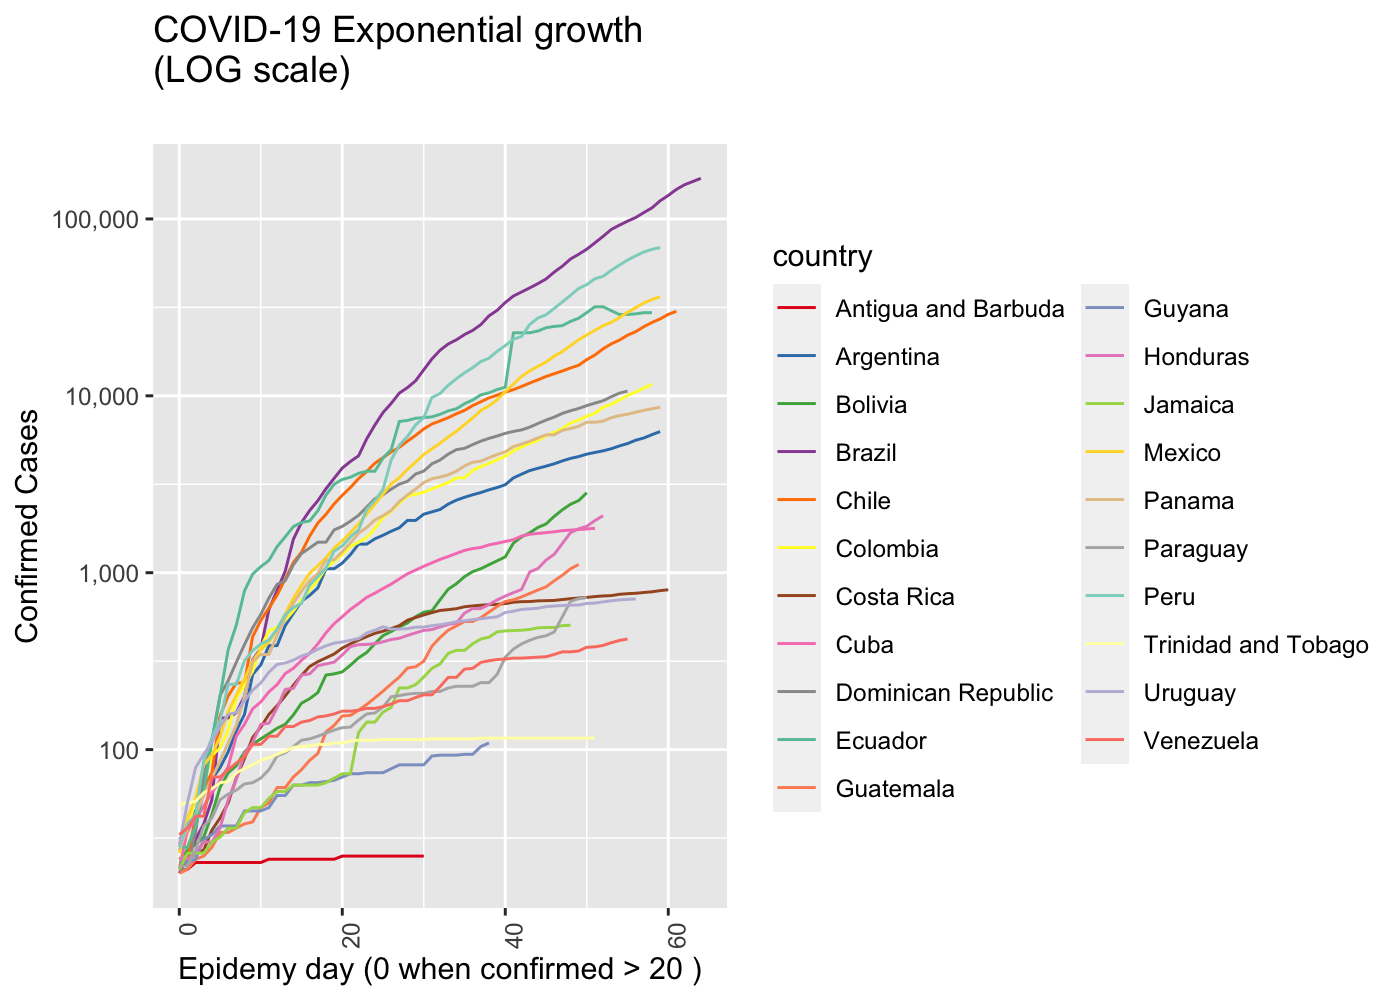
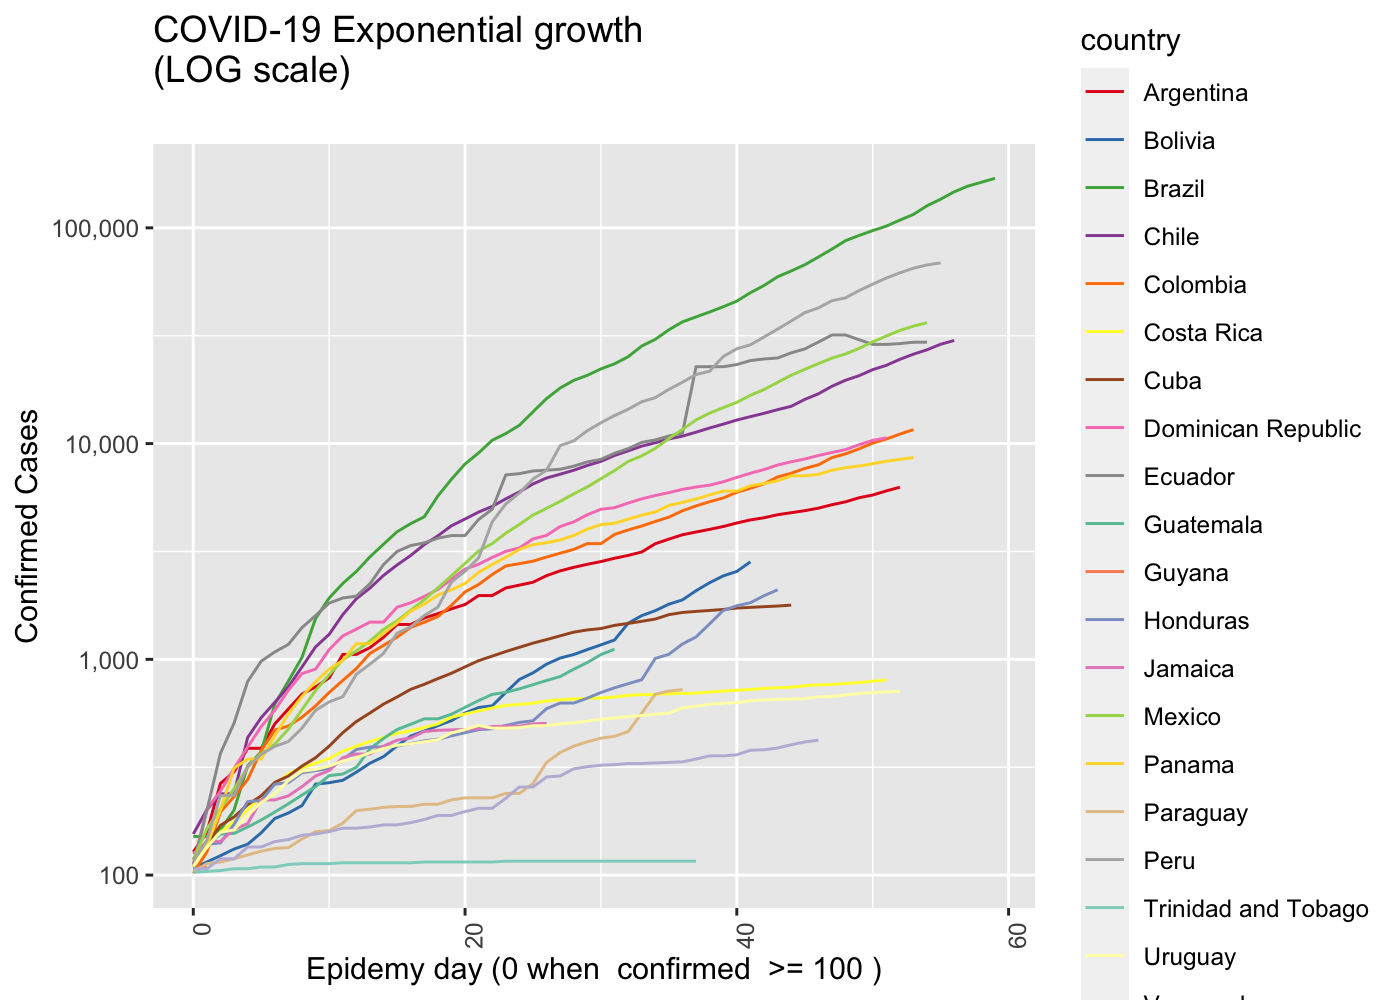
Minor corrections to dataviz

diff --git a/README.md b/README.md
@@ -90,15 +90,15 @@ library(dplyr)
 ``` r
 data.processor <- COVID19DataProcessor$new(force.download = FALSE)
 dummy <- data.processor$setupData()
-#> INFO  [23:47:04.010]  {stage: data loaded}
+#> INFO  [00:20:52.758]  {stage: data loaded}
 dummy <- data.processor$curate()
 #> Warning in countrycode(x, origin = "country.name", destination = "continent"): Some values were not matched unambiguously: MS Zaandam
-#> INFO  [23:47:06.366]  {stage: consolidated}
-#> INFO  [23:47:07.287]  {stage: Starting first imputation}
-#> INFO  [23:47:07.288] Imputation indicator {indicator: confirmed}
-#> INFO  [23:47:07.330] Imputation indicator {indicator: recovered}
-#> INFO  [23:47:07.436] Imputation indicator {indicator: deaths}
-#> INFO  [23:47:08.723]  {stage: Calculating top countries}
+#> INFO  [00:20:55.046]  {stage: consolidated}
+#> INFO  [00:20:55.718]  {stage: Starting first imputation}
+#> INFO  [00:20:55.719] Imputation indicator {indicator: confirmed}
+#> INFO  [00:20:55.756] Imputation indicator {indicator: recovered}
+#> INFO  [00:20:55.847] Imputation indicator {indicator: deaths}
+#> INFO  [00:20:56.954]  {stage: Calculating top countries}
 current.date <- max(data.processor$data$date)
 
 rg <- ReportGeneratorEnhanced$new(data.processor)
@@ -182,7 +182,7 @@ rg$ggplotTopCountriesStackedBarDailyInc(included.countries = latam.countries,
 <img src="man/figures/README-unnamed-chunk-5-1.png" width="100%" />
 
 ``` r
-rc$ggplotComparisonExponentialGrowth(included.countries = latam.countries, min.cases = 20)
+rc$ggplotComparisonExponentialGrowth(included.countries = latam.countries, min.cases = 100)
 ```
 
 <img src="man/figures/README-unnamed-chunk-5-2.png" width="100%" />
@@ -194,6 +194,13 @@ rg$ggplotCountriesLines(included.countries = latam.countries, countries.text = "
 ```
 
 <img src="man/figures/README-unnamed-chunk-5-3.png" width="100%" />
+
+``` r
+
+rc$ggplotComparisonExponentialGrowth(included.countries = latam.countries, field = "deaths", y.label = "deaths", min.cases = 1)
+```
+
+<img src="man/figures/README-unnamed-chunk-5-4.png" width="100%" />
 
 ``` r
 rg$ggplotTopCountriesStackedBarDailyInc(top.countries)
@@ -208,6 +215,12 @@ rc$ggplotComparisonExponentialGrowth(included.countries = international.countrie
 ```
 
 <img src="man/figures/README-unnamed-chunk-6-2.png" width="100%" />
+
+``` r
+rc$ggplotComparisonExponentialGrowth(included.countries = international.countries, field = "deaths", y.label = "deaths", min.cases = 1)
+```
+
+<img src="man/figures/README-unnamed-chunk-6-3.png" width="100%" />
 
 ``` r
 rg$ggplotCountriesLines(field = "confirmed.inc", log.scale = TRUE)
